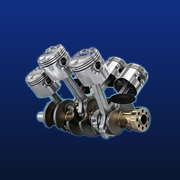
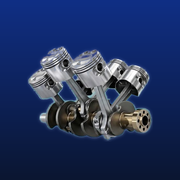
Ícono de la app con el motor corregido (sin la mancha negra)
Claude-Session: https://claude.ai/code/session_01PXNJR21fwGh64pdWmtabBg

Changed region(s): [[0.1389, 0.25, 0.8611, 0.8056]]

diff --git a/sw.js b/sw.js
@@ -1,6 +1,6 @@
 /* Integral Motor: guarda la app en el dispositivo para que abra rápido y sin internet.
    Los datos los sincroniza Firebase; acá solo se guardan los archivos de la app. */
-const C='im-v1';
+const C='im-v2';
 self.addEventListener('install',e=>{self.skipWaiting();e.waitUntil(caches.open(C).then(c=>c.addAll(['./','./manifest.webmanifest','./icon-192.png','./icon-512.png','./apple-touch-icon.png'])))});
 self.addEventListener('activate',e=>e.waitUntil(caches.keys().then(k=>Promise.all(k.filter(x=>x!=C).map(x=>caches.delete(x)))).then(()=>self.clients.claim())));
 self.addEventListener('fetch',e=>{const r=e.request;if(r.method!='GET')return;const u=new URL(r.url);
